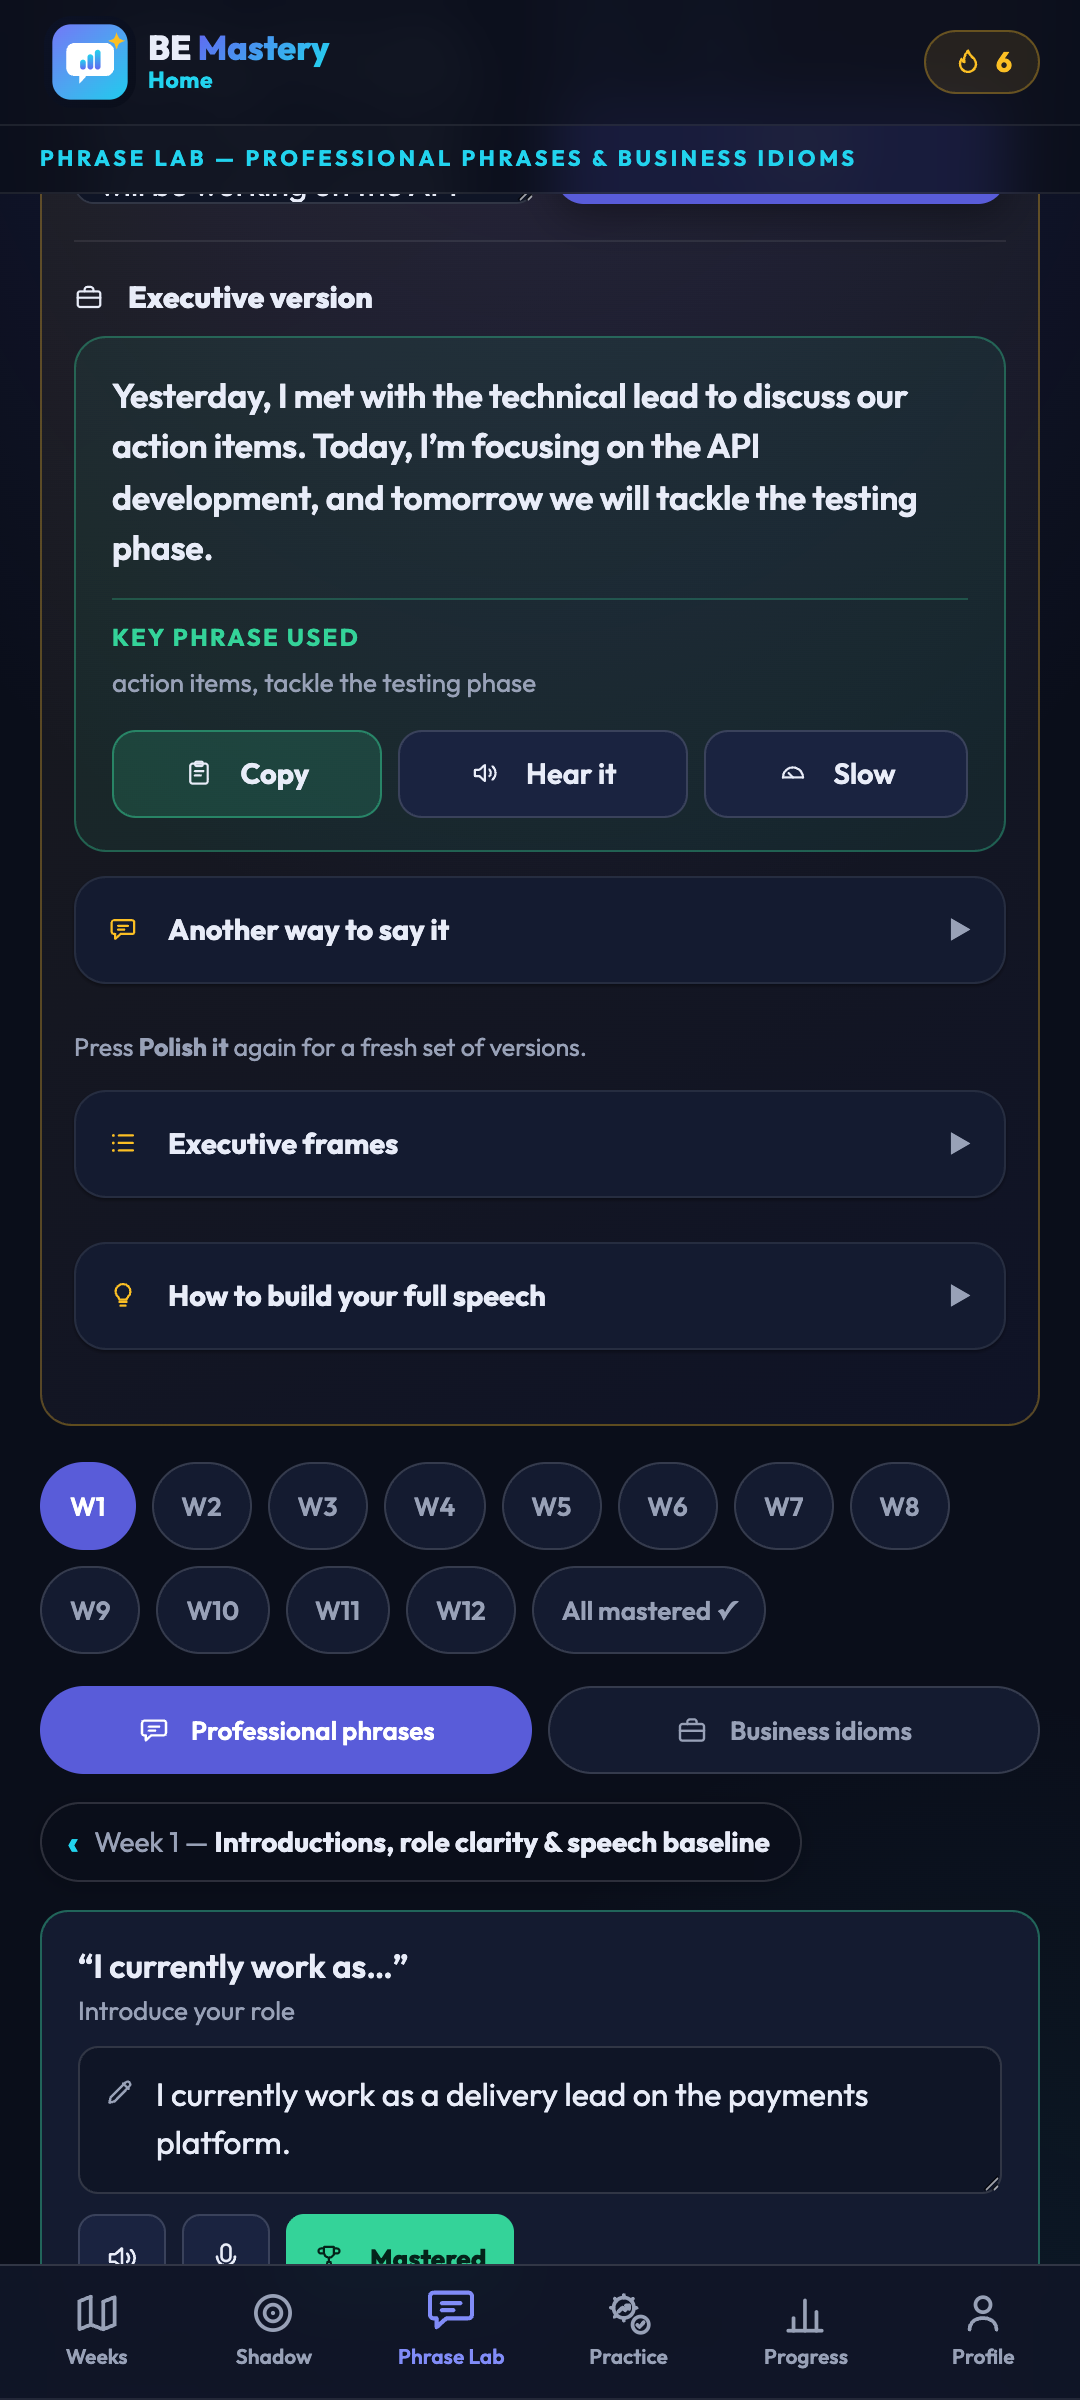
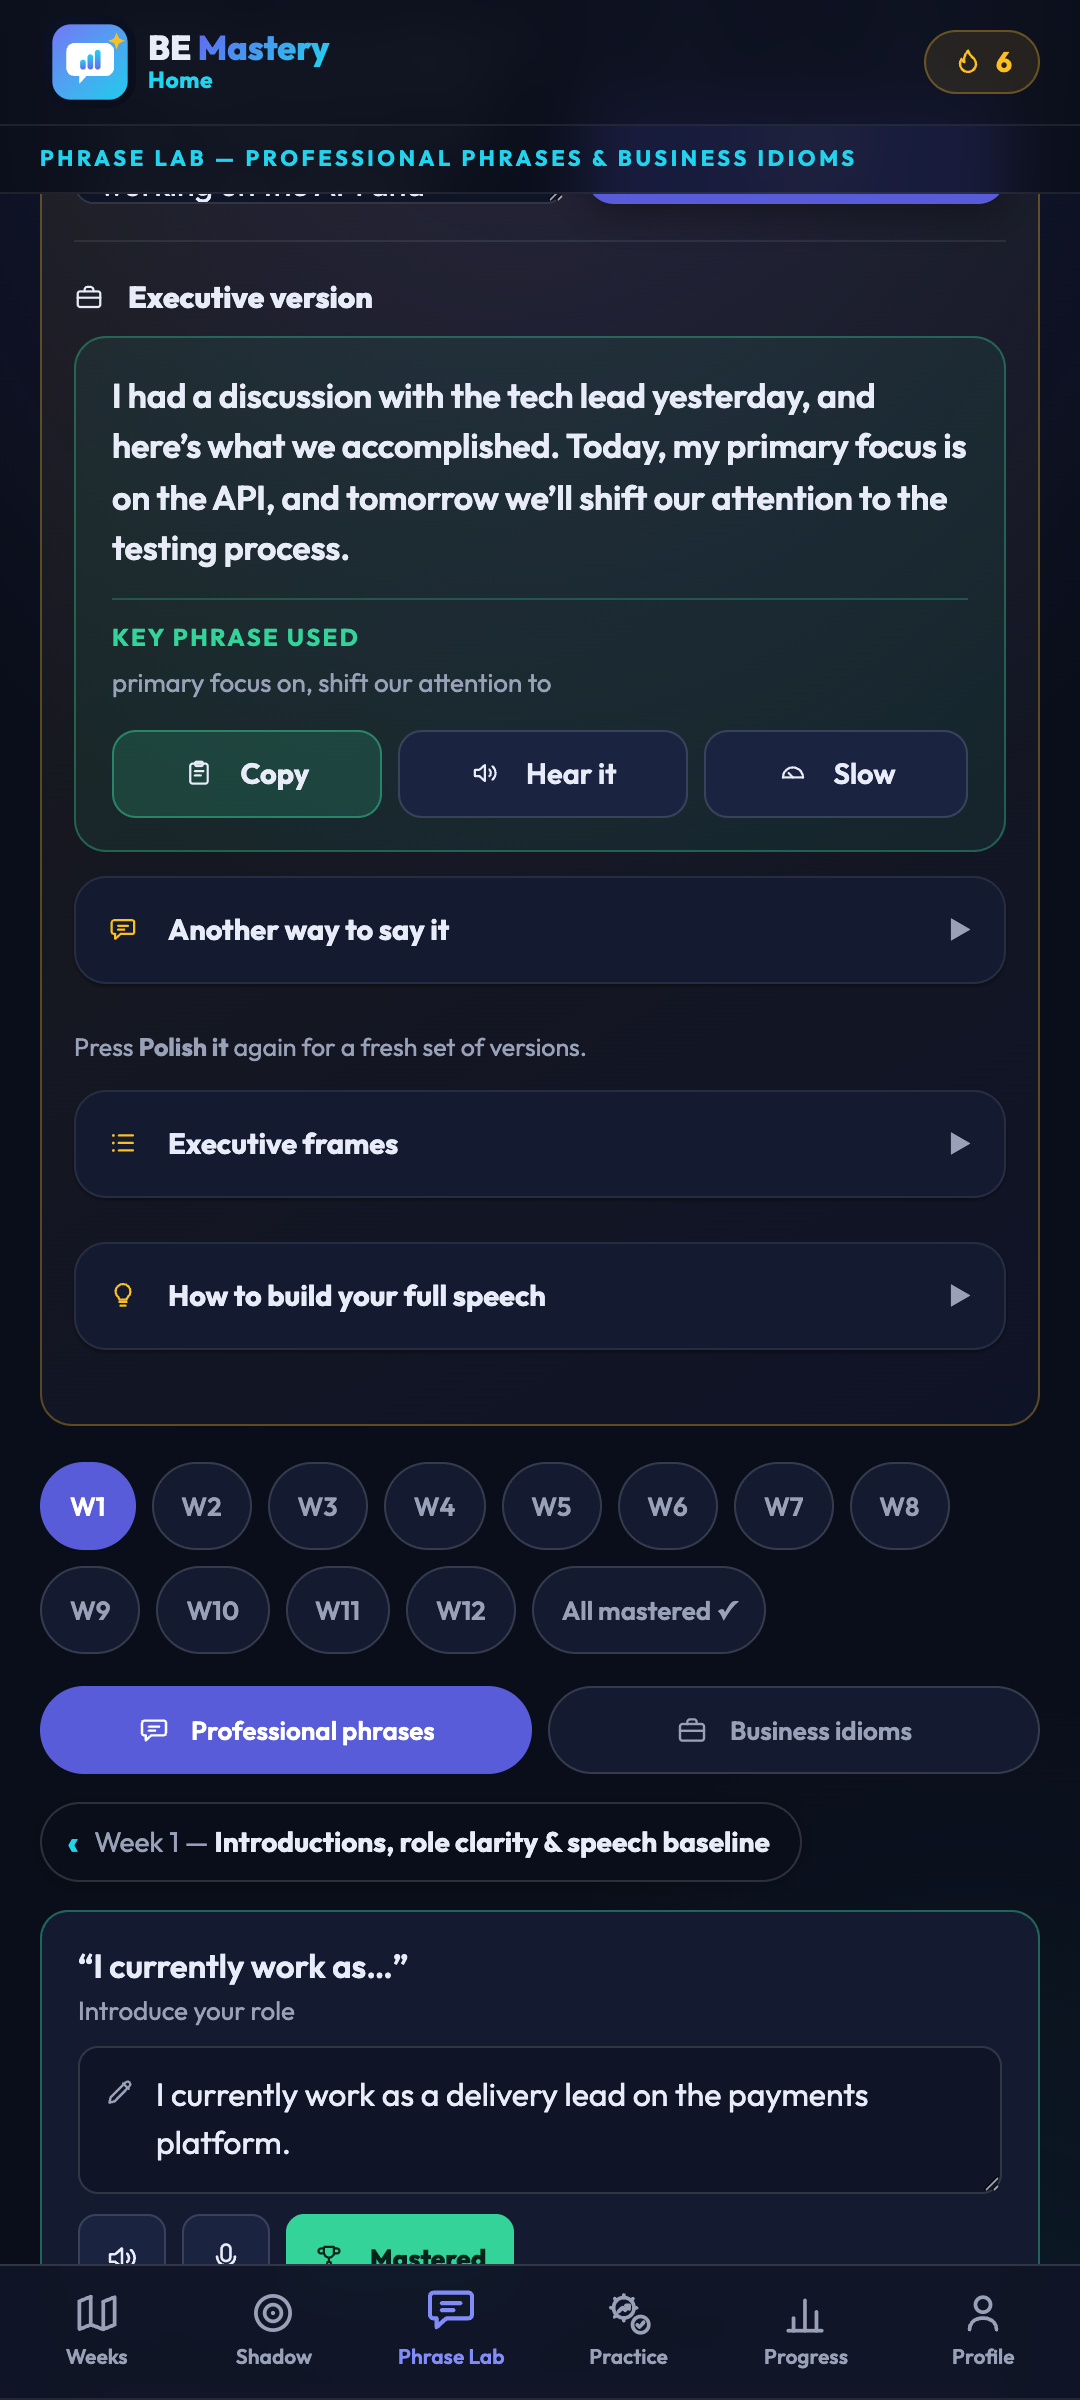
Re-shoot the office polish flyer against the current card
The Executive Polish card changed after that poster was built — the mic
and the bin became a two-column grid with "Polish it" spanning beneath,
and the mic now wears an accent ring while the box is empty. The welding
poster, shot afterwards, already showed the new layout, so the pair
disagreed about what the app looks like.

Re-captured, which means a fresh live polish result, so the quoted
"after" sentence and the two phrase chips move with it — on the poster
and in the WhatsApp caption, which quotes the same example. Both now
read "primary focus on" and "shift our attention to", straight out of
marketing/shots-polish/result.json.

Changed region(s): [[0.0917, 0.1562, 0.8861, 0.25], [0.1222, 0.2812, 0.4889, 0.3125], [0.5194, 0.0625, 0.55, 0.0938]]

diff --git a/marketing/polish-flyer.src.html b/marketing/polish-flyer.src.html
@@ -172,11 +172,11 @@ h1 em{font-style:italic;background:linear-gradient(96deg,#8b93ff,#22d3ee 70%,#34
     <div class="mid"><svg viewBox="0 0 24 24"><path d="M4 12h14"/><path d="M13 6l6 6-6 6"/></svg></div>
     <div class="side now">
       <div class="w">What you said instead</div>
-      <div class="l">“Yesterday, I met with the technical lead to discuss our action items. Today, I’m focusing on the API development, and tomorrow we will tackle the testing phase.”</div>
+      <div class="l">“I had a discussion with the tech lead yesterday, and here’s what we accomplished. Today, my primary focus is on the API, and tomorrow we’ll shift our attention to the testing process.”</div>
       <div class="gain">
         <span class="lab">You keep</span>
-        <span class="k">action items</span>
-        <span class="k">tackle the testing phase</span>
+        <span class="k">primary focus on</span>
+        <span class="k">shift our attention to</span>
       </div>
     </div>
   </div>
